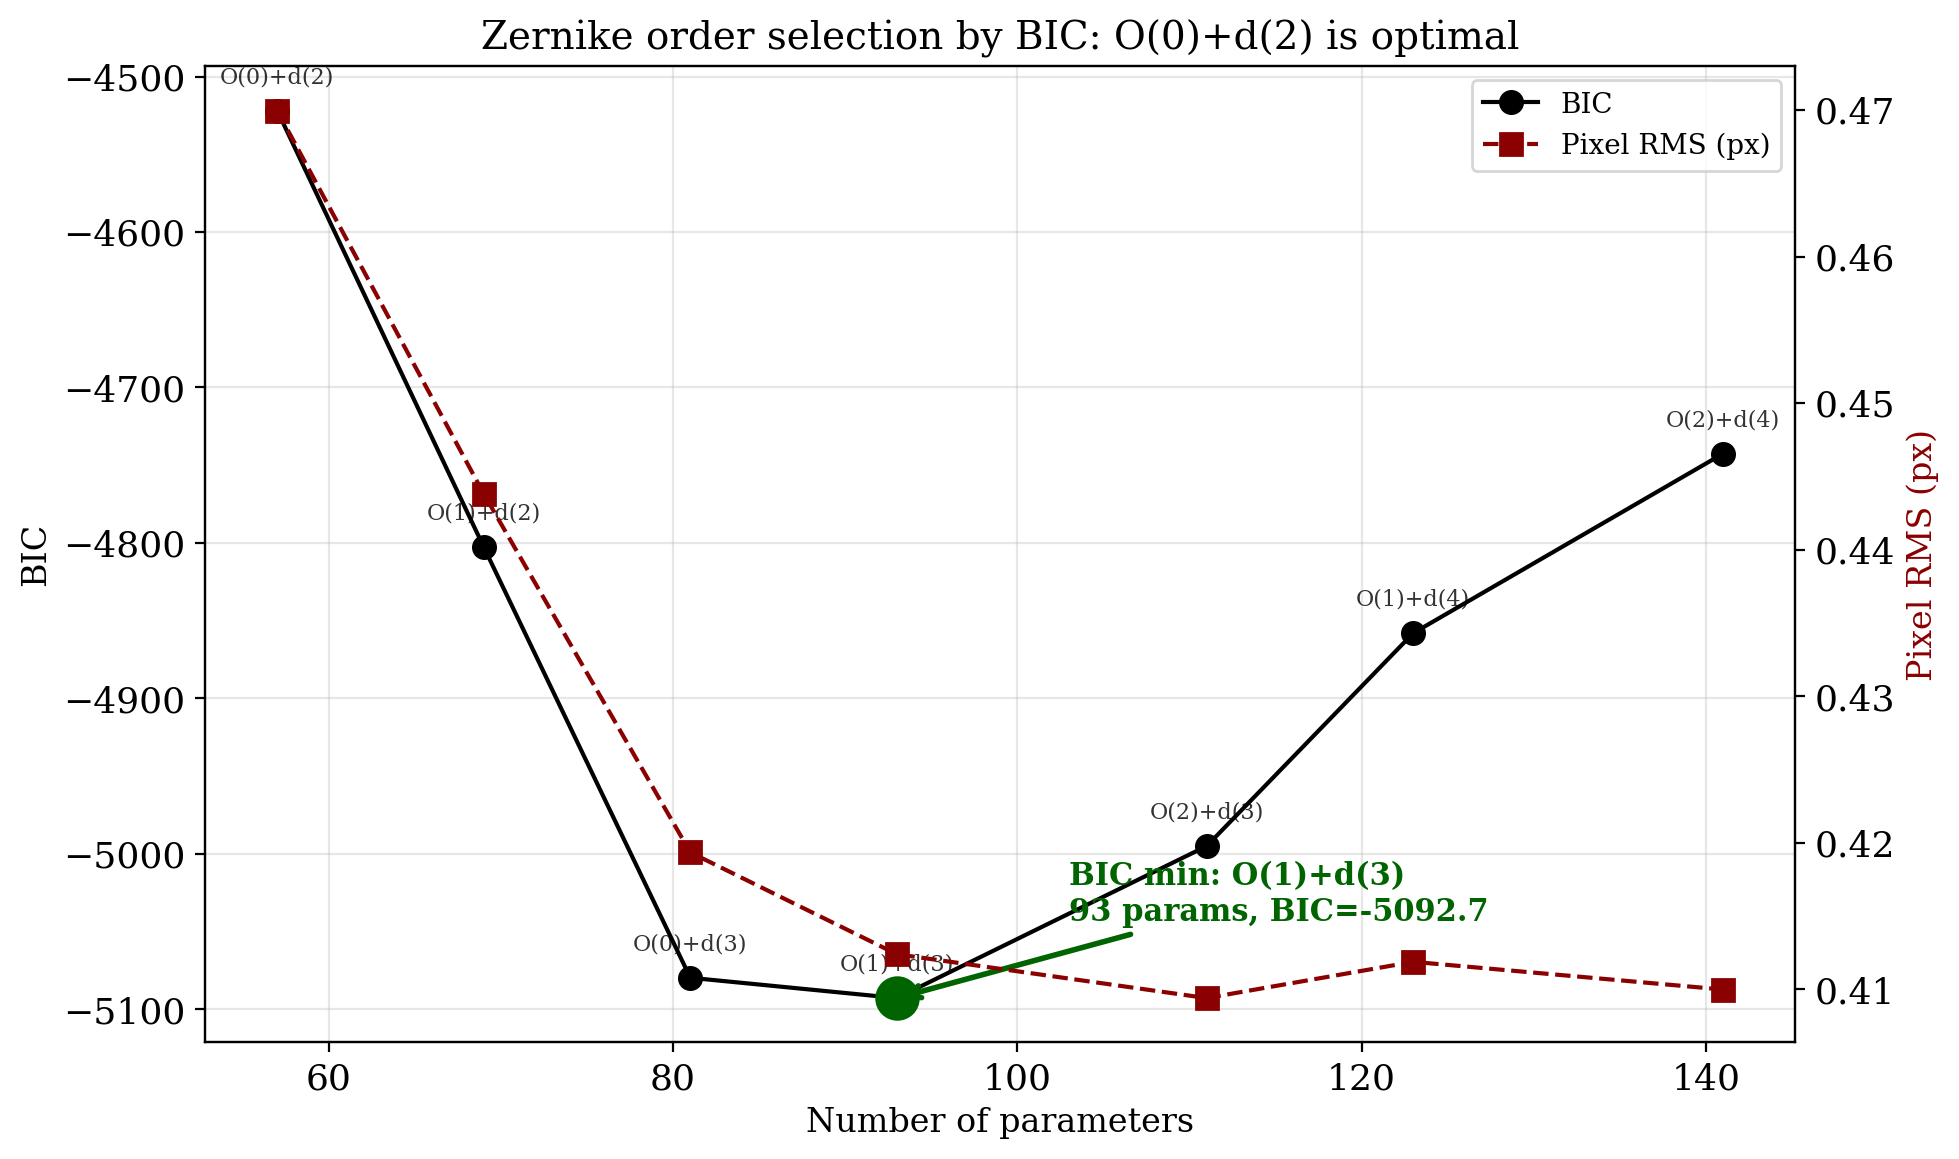
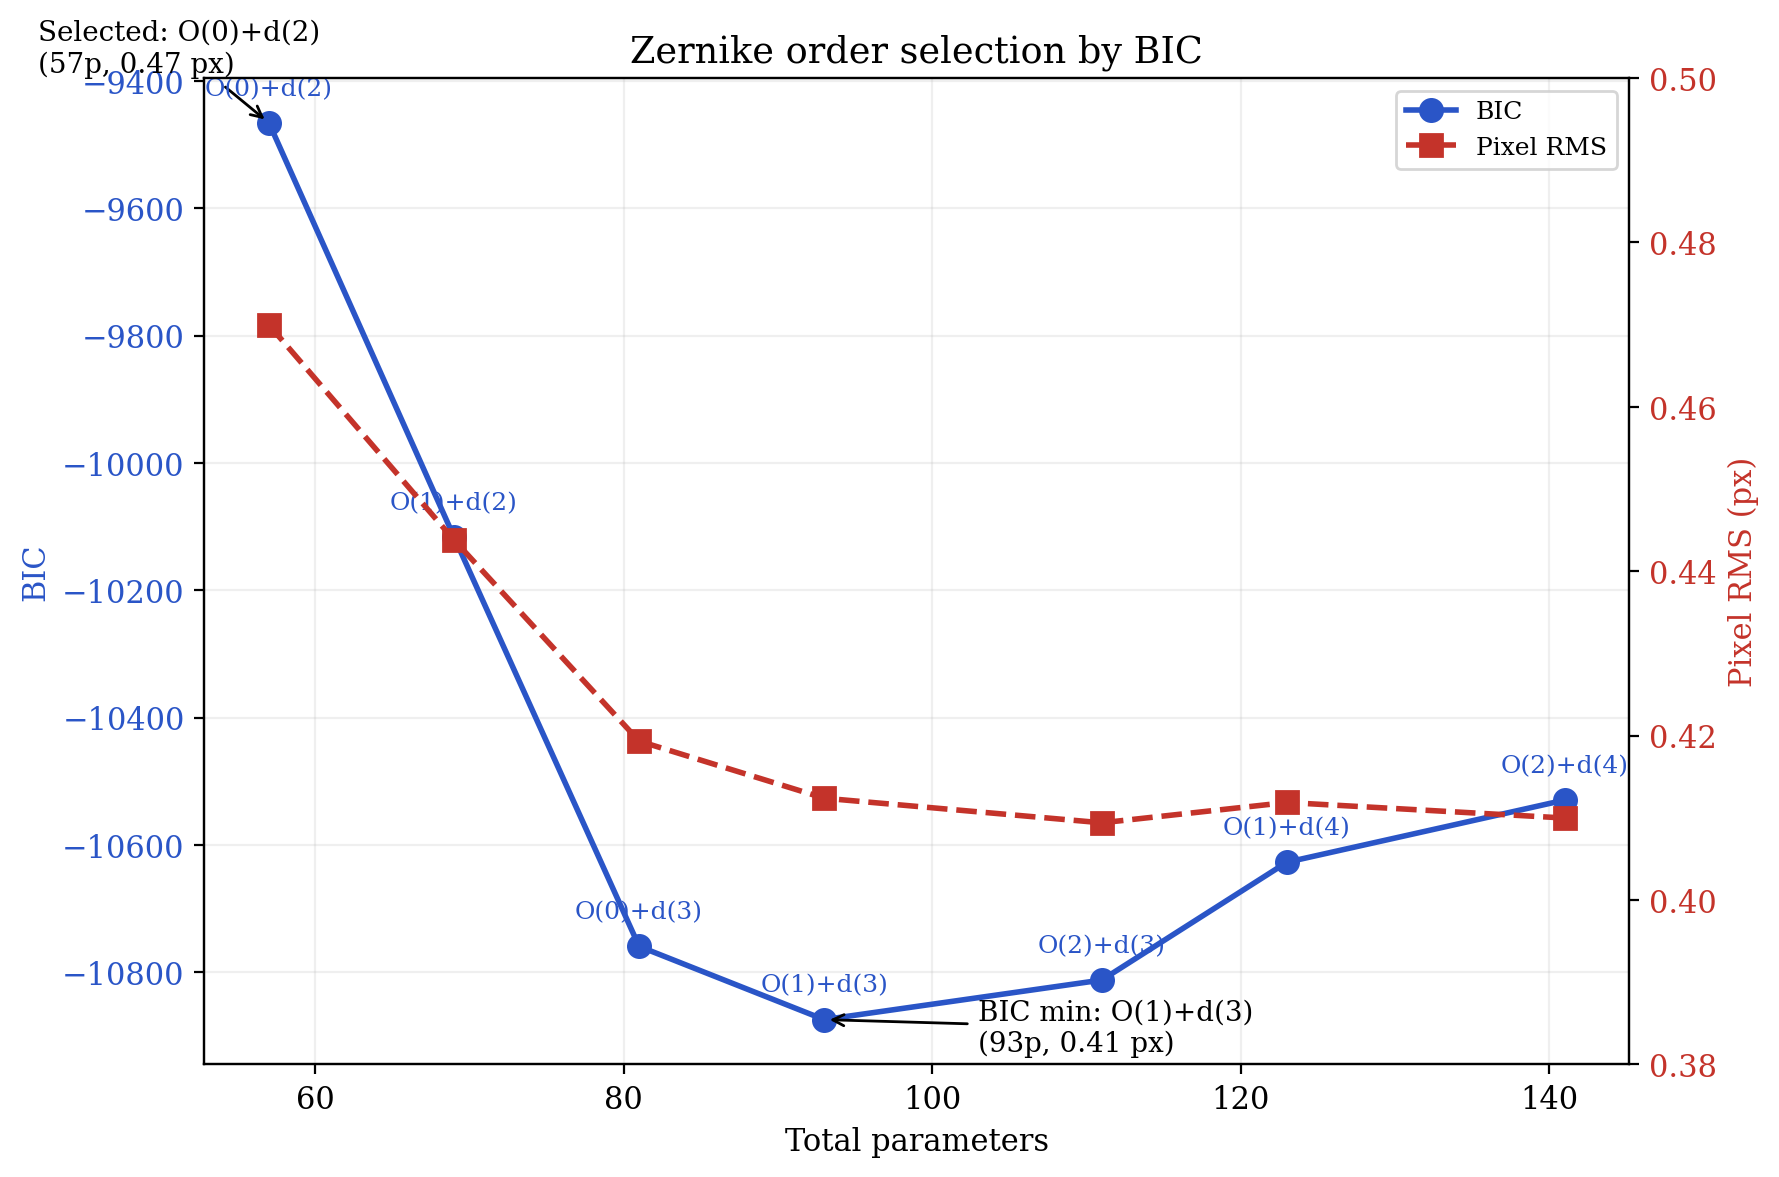
fig(cmo): de-orphan Figure 3 (BIC_vs_order.pdf)
docs/assets/cmo_paper/figure3_BIC_vs_order/ + generator. The
n_observation count is now broken down in the manifest (frames ×
corners × channels × coords) instead of being a magic 6600 buried in
the script.

CLAUDE.md tracker: 10/12 figures DONE.
Remaining: 12 (bic_bars), 1 (cmo_physical).

diff --git a/examples/notebooks/generate_fig_bic_vs_order.py b/examples/notebooks/generate_fig_bic_vs_order.py
@@ -1,80 +1,112 @@
 #!/usr/bin/env python3
-"""BIC vs Zernike order sweep (Figure 3).
+"""BIC vs Zernike order sweep (Figure 3 of the CMO paper).
 
-Dual-axis plot: BIC (left axis) and pixel RMS (right axis) versus total
-Zernike parameters. The BIC minimum is at O(1)+d(3) (93 params), though
-O(0)+d(2) (57 params) is within ~10% RMS at 40% fewer parameters and is
-selected for physical model construction.
+Dual-axis plot: BIC (left) and pixel RMS (right) versus total Zernike
+parameters. Annotates the BIC minimum and the selected ``O(0)+d(2)``
+model used downstream for physical model construction.
+
+All inputs are read from the manifest in
+``docs/assets/cmo_paper/figure3_BIC_vs_order/``. Emits both PDF (paper)
+and PNG (docs) in a single run.
 """
+
+from __future__ import annotations
+
 import json
 from pathlib import Path
-import numpy as np
+
 import matplotlib
-matplotlib.use('Agg')
-import matplotlib.pyplot as plt
 
-plt.rcParams.update({'font.family': 'serif', 'font.serif': ['DejaVu Serif'], 'font.size': 11})
-OUT = Path('paper/cmo/figures')
+matplotlib.use("Agg")
+import matplotlib.pyplot as plt  # noqa: E402
+import numpy as np  # noqa: E402
 
-with open('docs/assets/pycaso_real_data/zernike_order_sweep.json') as f:
-    sweep_data = json.load(f)
+MANIFEST = Path("docs/assets/cmo_paper/figure3_BIC_vs_order/manifest.json")
+OUT_DIR = Path("paper/cmo/figures")
+OUT_BASENAME = "BIC_vs_order"
 
-entries = sweep_data  # it's a flat array
-n_params = [e['p'] for e in entries]
-rms_vals = [e['rms'] for e in entries]
-labels = [f"O({e['O']})+d({e['d']})" for e in entries]
+plt.rcParams.update({
+    "font.family": "serif",
+    "font.serif": ["DejaVu Serif"],
+    "font.size": 11,
+})
 
-# Compute BIC: n_params * log(n_obs) + n_obs * log(rms^2)
-# n_obs ≈ 10 frames × 165 corners × 2 channels × 2 coords ≈ 6600 residuals
-n_obs = 10 * 165 * 2 * 2
-bic_vals = [p * np.log(n_obs) + n_obs * np.log(r**2) for p, r in zip(n_params, rms_vals)]
 
-fig, ax1 = plt.subplots(figsize=(9, 6))
+def render(manifest: dict, manifest_root: Path, out_dir: Path) -> None:
+    sweep_path = (manifest_root / manifest["sweep_json"]).resolve()
+    entries = json.loads(sweep_path.read_text(encoding="utf-8"))
 
-color1 = '#2a55c7'
-color2 = '#c4332a'
+    n_obs = (manifest["n_frames"] * manifest["n_corners"]
+             * manifest["n_channels"] * manifest["n_coords_per_point"])
 
-ax1.plot(n_params, bic_vals, 'o-', color=color1, lw=2, ms=8, label='BIC')
-ax1.set_xlabel('Total parameters')
-ax1.set_ylabel('BIC', color=color1)
-ax1.tick_params(axis='y', labelcolor=color1)
+    n_params = np.array([e["p"] for e in entries], dtype=np.int64)
+    rms_vals = np.array([e["rms"] for e in entries], dtype=np.float64)
+    labels = [f"O({e['O']})+d({e['d']})" for e in entries]
+    bic_vals = n_params * np.log(n_obs) + n_obs * np.log(rms_vals ** 2)
 
-# Mark BIC minimum
-bic_min_idx = np.argmin(bic_vals)
-ax1.annotate(f"BIC min: {labels[bic_min_idx]}\n({n_params[bic_min_idx]}p, {rms_vals[bic_min_idx]:.2f} px)",
-             (n_params[bic_min_idx], bic_vals[bic_min_idx]),
-             xytext=(n_params[bic_min_idx] + 10, bic_vals[bic_min_idx] - 50),
-             arrowprops=dict(arrowstyle='->', color='black'),
-             fontsize=10, color='black')
+    fig, ax1 = plt.subplots(figsize=tuple(manifest["figure_size"]))
+    color1 = "#2a55c7"
+    color2 = "#c4332a"
 
-# Mark selected O(0)+d(2)
-idx_O0d2 = next(i for i, lbl in enumerate(labels) if lbl == 'O(0)+d(2)')
-ax1.annotate(f"Selected: {labels[idx_O0d2]}\n({n_params[idx_O0d2]}p, {rms_vals[idx_O0d2]:.2f} px)",
-             (n_params[idx_O0d2], bic_vals[idx_O0d2]),
-             xytext=(n_params[idx_O0d2] - 15, bic_vals[idx_O0d2] + 80),
-             arrowprops=dict(arrowstyle='->', color='black'),
-             fontsize=10, color='black')
+    ax1.plot(n_params, bic_vals, "o-", color=color1, lw=2, ms=8, label="BIC")
+    ax1.set_xlabel("Total parameters")
+    ax1.set_ylabel("BIC", color=color1)
+    ax1.tick_params(axis="y", labelcolor=color1)
 
-# Annotate each point with label
-for i, lbl in enumerate(labels):
-    ax1.annotate(lbl, (n_params[i], bic_vals[i]),
-                 textcoords="offset points", xytext=(0, 10),
-                 fontsize=9, ha='center', color=color1)
+    bic_min_idx = int(np.argmin(bic_vals))
+    ax1.annotate(
+        f"BIC min: {labels[bic_min_idx]}\n"
+        f"({n_params[bic_min_idx]}p, {rms_vals[bic_min_idx]:.2f} px)",
+        (n_params[bic_min_idx], bic_vals[bic_min_idx]),
+        xytext=(n_params[bic_min_idx] + 10, bic_vals[bic_min_idx] - 50),
+        arrowprops=dict(arrowstyle="->", color="black"),
+        fontsize=10, color="black",
+    )
 
-ax2 = ax1.twinx()
-ax2.plot(n_params, rms_vals, 's--', color=color2, lw=2, ms=8, label='Pixel RMS')
-ax2.set_ylabel('Pixel RMS (px)', color=color2)
-ax2.tick_params(axis='y', labelcolor=color2)
-ax2.set_ylim(bottom=0.38, top=0.50)
+    selected_label = manifest["selected_label"]
+    idx_sel = next(i for i, lbl in enumerate(labels) if lbl == selected_label)
+    ax1.annotate(
+        f"Selected: {labels[idx_sel]}\n"
+        f"({n_params[idx_sel]}p, {rms_vals[idx_sel]:.2f} px)",
+        (n_params[idx_sel], bic_vals[idx_sel]),
+        xytext=(n_params[idx_sel] - 15, bic_vals[idx_sel] + 80),
+        arrowprops=dict(arrowstyle="->", color="black"),
+        fontsize=10, color="black",
+    )
 
-ax1.set_title('Zernike order selection by BIC')
-ax1.grid(alpha=0.2)
+    for i, lbl in enumerate(labels):
+        ax1.annotate(lbl, (n_params[i], bic_vals[i]),
+                     textcoords="offset points", xytext=(0, 10),
+                     fontsize=9, ha="center", color=color1)
 
-lines1, lbls1 = ax1.get_legend_handles_labels()
-lines2, lbls2 = ax2.get_legend_handles_labels()
-ax1.legend(lines1 + lines2, lbls1 + lbls2, loc='upper right', fontsize=9)
+    ax2 = ax1.twinx()
+    ax2.plot(n_params, rms_vals, "s--", color=color2, lw=2, ms=8,
+             label="Pixel RMS")
+    ax2.set_ylabel("Pixel RMS (px)", color=color2)
+    ax2.tick_params(axis="y", labelcolor=color2)
+    ax2.set_ylim(bottom=0.38, top=0.50)
 
-fig.tight_layout()
-fig.savefig(OUT / 'BIC_vs_order.pdf', dpi=200, bbox_inches='tight', facecolor='white')
-plt.close()
-print('BIC_vs_order.pdf OK')
+    ax1.set_title("Zernike order selection by BIC")
+    ax1.grid(alpha=0.2)
+
+    lines1, lbls1 = ax1.get_legend_handles_labels()
+    lines2, lbls2 = ax2.get_legend_handles_labels()
+    ax1.legend(lines1 + lines2, lbls1 + lbls2, loc="upper right", fontsize=9)
+
+    fig.tight_layout()
+    out_dir.mkdir(parents=True, exist_ok=True)
+    for ext in ("pdf", "png"):
+        out = out_dir / f"{OUT_BASENAME}.{ext}"
+        fig.savefig(out, dpi=200, bbox_inches="tight", facecolor="white")
+        print(f"wrote {out}")
+    plt.close(fig)
+
+
+def main() -> int:
+    manifest = json.loads(MANIFEST.read_text(encoding="utf-8"))
+    render(manifest, MANIFEST.parent, OUT_DIR)
+    return 0
+
+
+if __name__ == "__main__":
+    raise SystemExit(main())

diff --git a/CLAUDE.md b/CLAUDE.md
@@ -475,7 +475,7 @@ session) knows what is left.
 |---|---|---|---|---|
 | 1 | `cmo_physical.pdf` | `generate_fig_cmo_physical.py` | — | TODO |
 | 2 | `pipeline.pdf` | `generate_fig_pipeline.py` | `figure2_pipeline/` | **DONE** |
-| 3 | `BIC_vs_order.pdf` | `generate_fig_bic_vs_order.py` | — | TODO |
+| 3 | `BIC_vs_order.pdf` | `generate_fig_bic_vs_order.py` | `figure3_BIC_vs_order/` | **DONE** |
 | 4 | `subpupil_3d.pdf` | `generate_fig_subpupil_3d.py` | `figure4_subpupil_3d/` | **DONE** |
 | 5 | `dy_profile_comparison.pdf` | `generate_fig_dy_profile.py` | `figure5_dy_profile_comparison/` | **DONE** |
 | 6 | `residual_evolution.pdf` | `generate_fig_residual_evolution.py` | `figure6_residual_evolution/` | **DONE** (heavy compute cached as `residual_evolution_data.npz`; `--recompute` forces rerun) |

diff --git a/docs/assets/cmo_paper/figure3_BIC_vs_order/README.md b/docs/assets/cmo_paper/figure3_BIC_vs_order/README.md
@@ -1,0 +1,27 @@
+# Figure 3 (CMO paper) — BIC vs Zernike order
+
+Editable source of truth for Figure 3 of `paper/cmo/manuscript.tex`
+(line 163, `BIC_vs_order.pdf`).
+
+## Files
+
+- `manifest.json` — sweep input, observation-count breakdown
+  (`n_obs = n_frames × n_corners × n_channels × n_coords_per_point`),
+  selected model label, and figure size.
+
+## Upstream data
+
+- `docs/assets/pycaso_real_data/zernike_order_sweep.json` — list of
+  `{O, d, p, rms}` entries (one per Zernike order pair tested).
+
+## Regenerate
+
+```bash
+rtk .venv/bin/python examples/notebooks/generate_fig_bic_vs_order.py
+```
+
+Outputs:
+
+- `paper/cmo/figures/BIC_vs_order.pdf` — used by `\includegraphics` in
+  `manuscript.tex` (line 163).
+- `paper/cmo/figures/BIC_vs_order.png` — docs/preview.
